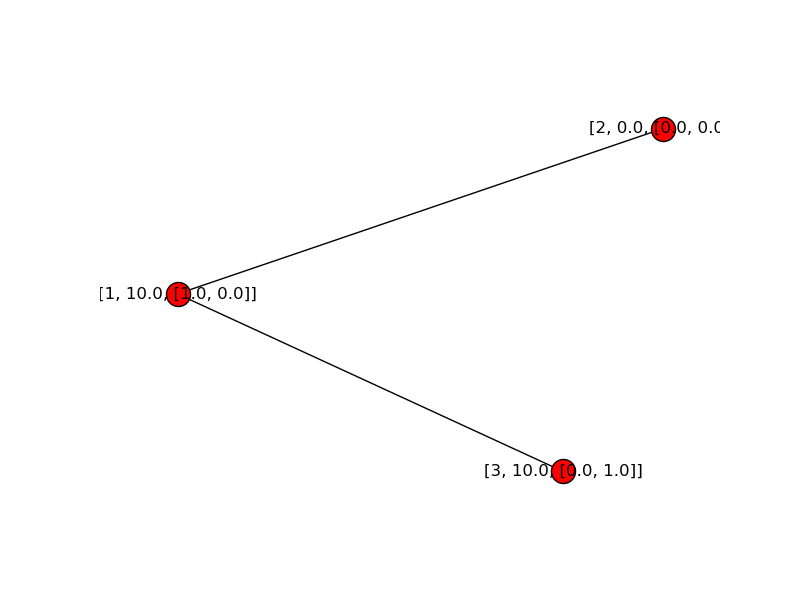
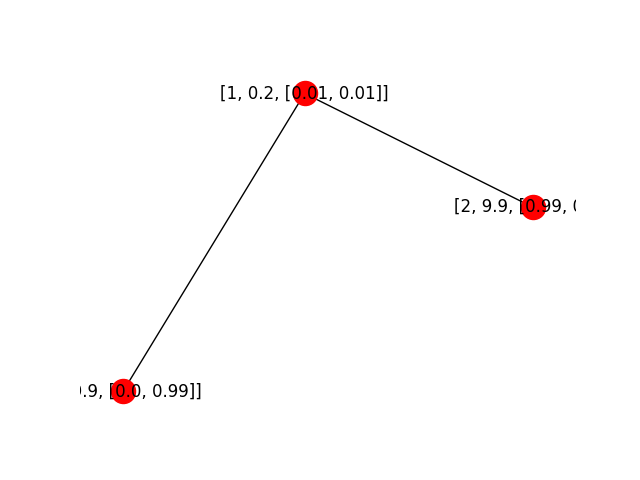
Updated the CheckEquilibrium function

diff --git a/dynamics.py b/dynamics.py
@@ -12,18 +12,24 @@ import linear_iterative
 #DONE
 def checkEquilibrium(agents_old, agents_new):
     #if G_old == G_new: return True
+    for agent in agents_old:
+        if (agents_old[agent].e == agents_new[agent].e).all():
+            pass
+        else:
+            return False
+    return True
 
     #check every agent's subplan
-    for agent in agents_old:
-        for person in range(agents_old[agent].subplans.shape[0]):
-            sublabels_old = [float(Decimal('%.2f' % elem)) for elem in list(agents_old[agent].subplans.T[0])]
-            sublabels_new = [float(Decimal('%.2f' % elem)) for elem in list(agents_new[agent].subplans.T[0])]
+    '''for agent in agents_old:
+        for person in range(agents_old[agent].e.shape[0]):
+            sublabels_old = [float(Decimal('%.2f' % elem)) for elem in list(agents_old[agent].e.T[0])]
+            sublabels_new = [float(Decimal('%.2f' % elem)) for elem in list(agents_new[agent].e.T[0])]
             print sublabels_old == sublabels_new
             if (sublabels_old == sublabels_new):
                 pass
             else:
                 return False
-
+    '''
     return True
 
 #TODO: Check approximate equilibrium if we never hit actual
@@ -37,7 +43,8 @@ def drawNetwork(G, attribute, filename):
 
     for agent in attr.itervalues():
         sublabels = [float(Decimal('%.2f' % elem)) for elem in list(agent.e)]
-        labels[agent.idnum] = [agent.idnum, agent.calcUtility(), sublabels]
+        util = float(Decimal('%.2f' % agent.calcUtility()))
+        labels[agent.idnum] = [agent.idnum, util, sublabels]
     nx.draw(G, pos=nx.spring_layout(G), labels=labels)
     plt.savefig(filename)
 

diff --git a/linear_iterative.py b/linear_iterative.py
@@ -15,11 +15,17 @@ def calcTrade(agent, neighbor):
 
     for item_num1, copies1 in enumerate(agent.e):
         for item_num2, copies2 in enumerate(neighbor.e):
+            #neighbor gives agent item 1, agent gives neighbor item 2
             if neighbor.u[item_num1] < agent.u[item_num1] and neighbor.u[item_num2] >= agent.u[item_num2]:
                 print 'engaged in trade'
+                print agent.e
+                print neighbor.e
+                num_traded = min(neighbor.e[item_num1], agent.e[item_num2])
+                bought_items[item_num1] += num_traded
+                sold_items[item_num2] += num_traded
 
-                bought_items[item_num1] += neighbor.e[item_num1]
-                sold_items[item_num2] += agent.e[item_num2]
+                #bought_items[item_num1] += neighbor.e[item_num1]
+                #sold_items[item_num2] += agent.e[item_num2]
 
 
     return bought_items.T, sold_items.T

diff --git a/sample_iterative.py b/sample_iterative.py
@@ -12,13 +12,13 @@ def main():
     G = makegraphs.starGraph(3)
     agentlist = {}
     #id num, utility, endowment, prices
-    agent2 = Agent(2, np.array((10.0,1.0)), np.array((0.0,1.0)), np.array((1.0, 1.0)))
+    agent2 = Agent(2, np.array((10.0,1.0)), np.array((0.01,0.98)), np.array((1.0, 1.0)))
     agentlist[2] = agent2
 
-    agent1 = Agent(1, np.array((10.0,10.0)), np.array((0.0,0.0)), np.array((10.0,10.0)))
+    agent1 = Agent(1, np.array((10.0,10.0)), np.array((0.01,0.01)), np.array((10.0,10.0)))
     agentlist[1] = agent1
 
-    agent3 = Agent(3, np.array((1.0,10.0)), np.array((1.0,0.0)), np.array((1.0,1.0)))
+    agent3 = Agent(3, np.array((1.0,10.0)), np.array((0.98,0.01)), np.array((1.0,1.0)))
     agentlist[3] = agent3
 
 
